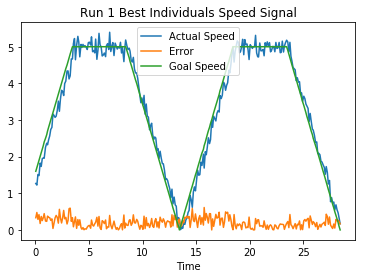
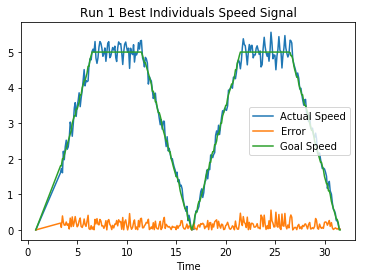
Added autorally_sim_manager_2 which encompasses the responsibilities of the utility monitor nodes to see if there would be smoother results without the communication delay between nodes on logging events

diff --git a/msu_autorally/evo_ros2/src/autorally_sim_manager_2.py b/msu_autorally/evo_ros2/src/autorally_sim_manager_2.py
@@ -1,0 +1,228 @@
+#!/usr/bin/env python
+#
+# Autorally Sim Manager Node
+#
+#	
+#
+# GAS 2018-08-21
+
+import rospy
+import roslaunch
+import rosnode
+import argparse
+import numpy as np
+import threading
+import copy
+
+from gazebo_msgs.srv import GetWorldProperties
+
+from evo_ros2.msg import EvoROS2State
+from evo_ros2.msg import LogEvent
+from evo_ros2.msg import Float64Array
+
+from autorally_msgs.msg import wheelSpeeds
+from std_msgs.msg import Float64
+
+
+
+class AutorallySimManagerNode():
+	def __init__(self, cmd_args):
+		
+		# Init Node
+		self.node_name = 'autorally_sim_manager'
+		rospy.init_node(self.node_name, anonymous=False)
+		
+		# Register shutdown hook
+		rospy.on_shutdown(self.on_shutdown)
+		
+		# Write command line arguments into class variables
+		self.debug = (cmd_args.debug or rospy.get_param('/DEBUG',False))
+		
+		# Get ros params
+		self.mission_launch_info = rospy.get_param('sim_manager/MISSION_LAUNCH_FILE')
+		self.utility_monitors_launch_info = rospy.get_param('sim_manager/UTILITY_MONITORS_LAUNCH_FILE')
+		self.logging_rate = rospy.get_param('LOGGING_RATE', 10)
+		self.world_properties_service = rospy.get_param('ROS_GAZEBO_WORLD_PROPERTIES_SERVICE')
+		
+		# Get Access to Gazebo World properties
+		rospy.logwarn('{} - Waiting for Gazebo Properties'.format(self.node_name))
+		rospy.wait_for_service(self.world_properties_service)
+		self.getWorldProp = rospy.ServiceProxy(self.world_properties_service, GetWorldProperties)
+		
+		# Prepare log
+		self.prepare_log()
+		
+		# Sent up monitored topics
+		self.wheel_speed_topic = rospy.Subscriber('/wheelSpeeds', wheelSpeeds, self.wheel_speed_topic_cb)
+		self.goal_speed_topic = rospy.Subscriber('/constantSpeedController/speedCommand', Float64, self.goal_speed_topic_cb)
+		
+		
+		
+		# Set up threading event - Used to sync main thread and the evo-ros2 communication threads since the ros launch api has to be called from the main thread
+		self.event = threading.Event()
+		self.event.clear()
+		self.lock = threading.Lock()
+		
+		# Set up communication topics
+		self.set_up_evo_ros2_communications()
+		
+		# Set up other member variables
+		self.sim_start_time = 0
+
+		
+		while not rospy.is_shutdown():
+			
+			# This will block until the event flag is set to true or the timeout value (in seconds) is reached
+			#	Returns true if the flag has been set and false if the timeout value is hit
+			if not self.event.wait(timeout = 1.0):
+				continue
+			
+			state = rospy.get_param('evo_ros2_state')
+			self.event.clear()
+			
+			if self.debug:
+				rospy.logwarn('{} - in main thread and state {}'.format(self.node_name, state))
+			
+			if state == 4:
+				# start sim
+				self.start_sim()
+				self.set_evo_ros2_state(5)
+				continue
+	
+			if state == 5:
+				# sim running
+				self.sleep_rate = rospy.Rate(self.logging_rate) # Hz
+				
+				# Perform logging while the mission nodes are still a subset of all ros nodes (they exist)
+				while set(self.mission_nodes) < set(rosnode.get_node_names()):
+					self.log_event()
+					self.sleep_rate.sleep()
+				
+				result_msg = self.end_sim()
+				self.set_evo_ros2_state(6, msg = result_msg)
+				continue
+		
+
+	def prepare_log(self):
+		try:
+			current_time = self.getWorldProp().sim_time 
+		except:
+			rospy.logerr('{} - Failed to get sim time!'.format(self.node_name))
+			
+		self.result_headers = ['Time', 'Goal Speed', 'Actual Speed']
+		self.last_goal_speed = 0
+		self.last_actual_speed = 0
+		self.log = [[current_time],[self.last_goal_speed],[self.last_actual_speed]]
+		
+		
+	def log_event(self):
+		try:
+			current_time = self.getWorldProp().sim_time 
+		except:
+			rospy.logerr('{} - Failed to get sim time!'.format(self.node_name))
+			
+		self.log[0].append(current_time)
+		self.log[1].append(self.last_goal_speed)
+		self.log[2].append(self.last_actual_speed)
+		
+		
+	def wheel_speed_topic_cb(self, msg):
+		self.last_actual_speed = (msg.lfSpeed + msg.rfSpeed) / 2.0
+	
+	def goal_speed_topic_cb(self, msg):
+		self.last_goal_speed = msg.data
+		
+
+	def start_sim(self):
+		self.uuid = roslaunch.rlutil.get_or_generate_uuid(None, False)
+		roslaunch.configure_logging(self.uuid)
+		sleep_rate = rospy.Rate(10) # Hz
+		
+		# Get list of ros nodes that are present before the mission launch file is started
+		pre_mission_nodes = rosnode.get_node_names()
+
+		# Start mission launch file which is responsible for controlling the platform through the simulation
+		self.mission_launch = roslaunch.parent.ROSLaunchParent(self.uuid, roslaunch.rlutil.resolve_launch_arguments(self.mission_launch_info ))
+		self.mission_launch.start()
+		
+		rospy.sleep(2)
+		# Wait for new nodes to show up
+		while pre_mission_nodes == rosnode.get_node_names():
+			sleep_rate.sleep()
+			
+		# Get list of ros nodes that are present after the mission launch file has been started and compare it to the ones 
+		# 	alive prior to determine the nodes that were spawned as a result of the mission launch file
+		post_mission_nodes = rosnode.get_node_names()
+		self.mission_nodes = list(set(post_mission_nodes) - set(pre_mission_nodes))
+		rospy.logwarn('Mission nodes: {}'.format(self.mission_nodes))
+		
+		# Get the sim start time
+		while self.sim_start_time == 0:
+			self.sim_start_time = rospy.get_rostime()
+	
+	def end_sim(self):
+		self.mission_launch.shutdown()
+
+		
+		# Load results into the next state change msg
+		msg = EvoROS2State()
+		msg.result = []
+		for x in range(len(self.log)):
+			msg.result.append(Float64Array())
+		
+		print(self.log)
+		print(self.result_headers)
+		
+		for index, log_array in enumerate(self.log):
+			msg.result[index].header = self.result_headers[index]
+			msg.result[index].data = copy.deepcopy(log_array)
+		return msg
+		
+	
+	def set_up_evo_ros2_communications(self):
+		# Evo ROS state event topic
+		self.evo_ros2_comm_topic = rospy.get_param('EVO_ROS_COMM_TOPIC')
+		self.evo_ros2_comm_pub = rospy.Publisher(self.evo_ros2_comm_topic, EvoROS2State, queue_size=10, latch = True)
+		self.evo_ros2_comm_sub = rospy.Subscriber(self.evo_ros2_comm_topic, EvoROS2State, self.on_evo_ros2_state_change)
+		
+	
+	
+	def set_evo_ros2_state(self, new_state_value, msg = EvoROS2State()):
+		rospy.set_param('evo_ros2_state', new_state_value)
+		msg.sender = self.node_name
+		msg.state = new_state_value
+		#print(msg)
+		self.evo_ros2_comm_pub.publish(msg)
+		
+			
+	def on_evo_ros2_state_change(self, msg):
+		if self.debug:
+			rospy.logwarn('{} - In state: {}'.format(self.node_name, msg.state))
+			
+		if msg.state == 2:
+			self.set_evo_ros2_state(3)
+			
+		if msg.state == 4:
+			self.event.set()
+			# start sim
+
+		if msg.state == 5:
+			self.event.set()
+			# sim running
+
+	def on_shutdown(self):
+		self.mission_launch.shutdown()
+		
+	
+if __name__ == '__main__':
+	# Parse arguments
+	parser = argparse.ArgumentParser(description='Empty ROS node')
+	parser.add_argument('-d', '--debug', action='store_true', help='Print extra output to terminal.')
+	args, unknown = parser.parse_known_args() # Only parse arguments defined above
+
+	try:
+		node = AutorallySimManagerNode(cmd_args = args)
+	except rospy.ROSInterruptException:
+		pass
+	
+	
